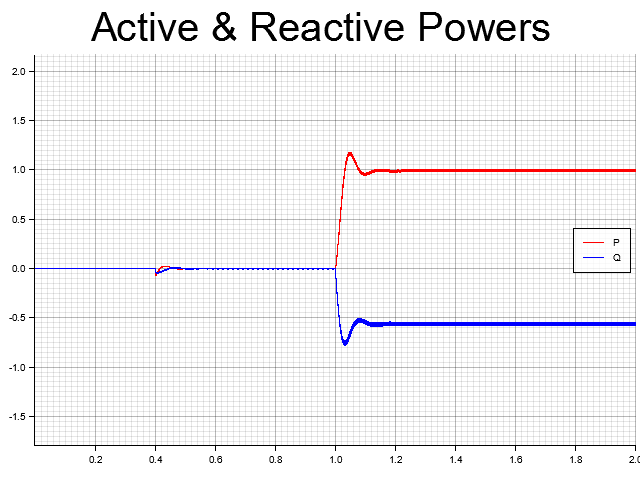
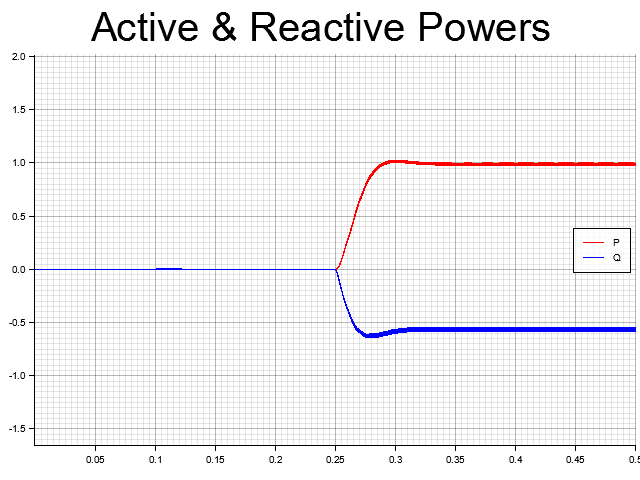
Fixed voltage sampling in 1ph simulation and modified OSG gains

Changed region(s): [[0.0, 0.2812, 1.0, 0.9688], [0.0312, 0.0938, 1.0, 0.25]]

diff --git a/src/bin/dvoc_1ph_rl_sim.rs b/src/bin/dvoc_1ph_rl_sim.rs
@@ -35,15 +35,14 @@ fn main() -> Result<(), Box<dyn std::error::Error>> {
     let dt: f32 = 1. / fs;  // s
 
     // Orthogonal system generator parameters
-    let k_osg = 0.8;
+    let k_osg = 2.0;
 
     // dVOC parameters
     let xi: f32 = 15.;
     let c: f32 = 0.2679;
     let gamma: f32 = 1.; 
 
-
-
+    // construct controllers
     let mut inv = build_dvoc_controller(v_nom, w_nom, xi, c, n_phases);
     inv.x[(1)] = 0.005;  // Initialize inverter angle to be off from the grid to test presync
     inv.x[(0)] = 1.1;  // Initialize inverter voltage to be off from v_nom to test presync
@@ -52,6 +51,7 @@ fn main() -> Result<(), Box<dyn std::error::Error>> {
     let mut vg_osg = OrthSigGenSogi::new(w_nom, k_osg, rk2_step);
     let mut i_osg = OrthSigGenSogi::new(w_nom, k_osg, rk2_step);
 
+    // construct simulation elements
     let mut line: RlBranch<f32> = build_rl_branch(i_base, w_nom, rf / z_base, lf / z_base);
     line.open_switch();  // Start with the line disconnected from the ac voltage source
     let bus: AcVoltSrc<f32> = build_ac_volt_src(v_nom, w_nom);
@@ -62,7 +62,7 @@ fn main() -> Result<(), Box<dyn std::error::Error>> {
     RUNNING DYNAMICAL SIMULATION
     */
     // Simulation settings
-    let t_end = 2.0;  // Simulate time in seconds
+    let t_end = 0.5;  // Simulate time in seconds
     let t_step = t_end / 2.; // Active power reference step time
     let t_switch = t_end / 5.;  // Grid-side switch time
     let n_steps: u32 = (t_end / dt).ceil() as u32;
@@ -73,7 +73,7 @@ fn main() -> Result<(), Box<dyn std::error::Error>> {
     let mut t: f32;
     let mut p: f32 = 0.; let mut q: f32 = 0.; let mut delta: f32; 
     let mut i_alpha_sample: f32; let mut i_beta_sample: f32;
-    let mut v_grid_sample: f32; let mut theta_grid_sample: f32;
+    let mut v_grid_sample: f32; let mut theta_grid_sample: f32; let mut voltage_sample: f32;
     let mut v_grid: f32; let mut theta_grid: f32; let mut v_inv: [f32; 2];
     let mut v_to_alpha_beta: AlphaBeta<f32>;
     // Simulation data vectors
@@ -101,9 +101,9 @@ fn main() -> Result<(), Box<dyn std::error::Error>> {
         ia_values[step as usize] = (t, line_to_bus.x[(2)]);
         ib_values[step as usize] = (t, line_to_bus.x[(3)]);
         delta = v_inv[1] - line_to_bus.x[(1)];
-        if delta > (1. / f_nom) {
+        if delta > (1. / f_nom - 5.0e-4) {
             delta = -(1. / f_nom) + delta;
-        } else if delta < -(1. / f_nom - 1.0e-4) {
+        } else if delta < -(1. / f_nom - 5.0e-4) {
             delta = (1. / f_nom) + delta;
         }
         delta_values[step as usize] = (t, delta);
@@ -135,7 +135,8 @@ fn main() -> Result<(), Box<dyn std::error::Error>> {
         }
 
         // Step the orth-sign-gen and controller after a z^-1 delay using only single-phase data
-        vg_osg.step(dt, [v_grid_sample * libm::cosf(theta_grid_sample)]);  // Calculate sampled single-phase signals
+        voltage_sample = SQRT_2 * v_grid_sample * libm::cosf(theta_grid_sample);
+        vg_osg.step(dt, [voltage_sample]);  // Calculate sampled single-phase signals
         i_osg.step(dt, [i_alpha_sample]);
         gfm.inv_step(dt, [i_osg.x[(0)], i_osg.x[(1)]], [vg_osg.x[(0)], vg_osg.x[(1)]]);
     }

diff --git a/src/bin/osg_sim.rs b/src/bin/osg_sim.rs
@@ -25,7 +25,7 @@ fn main() -> Result<(), Box<dyn std::error::Error>> {
     let dt: f32 = 1. / fs;  // s
 
     // Orthogonal system generator parameters
-    let k_osg = 0.8;
+    let k_osg = 2.0;
 
     let mut osg = OrthSigGenSogi::new(w_nom, k_osg, rk2_step);
 
